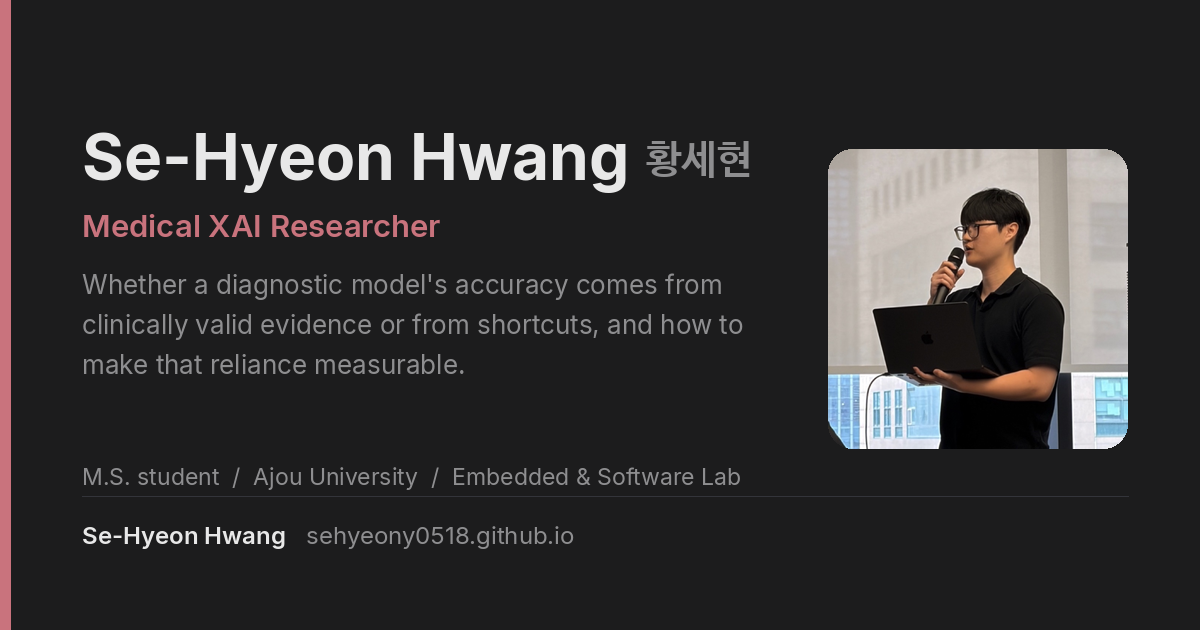
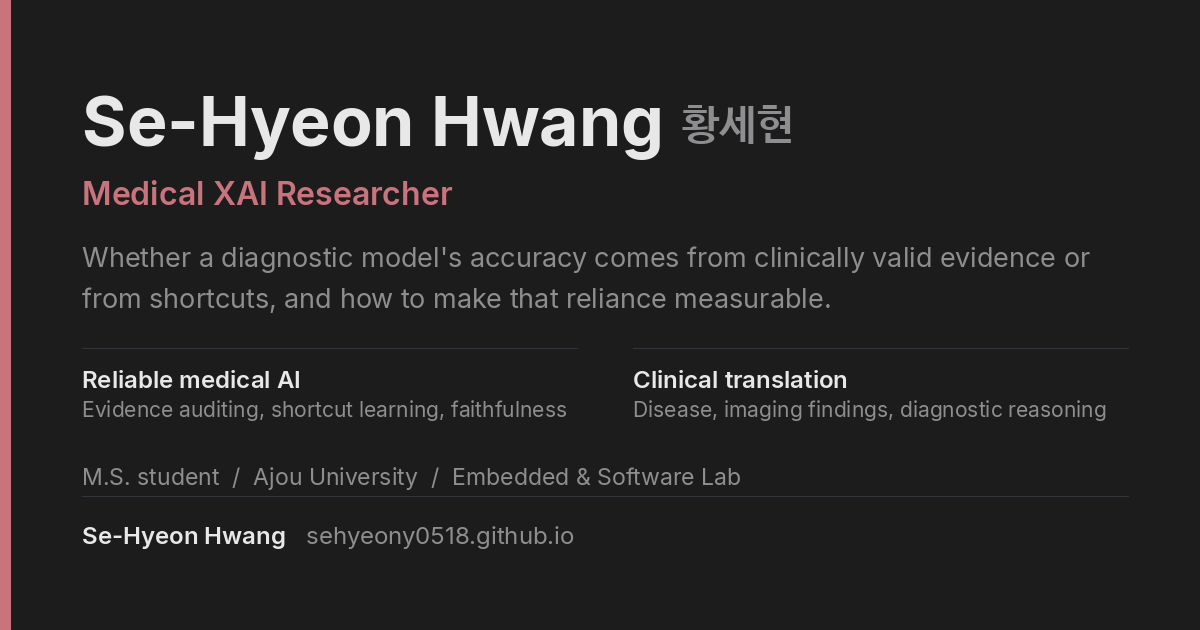
Drop the portrait from the home share card
The card led with a photograph, which is not what the owner wants a
shared link to put in front of people. It is now entirely typographic:
the name, the role line in the accent colour, what the research asks,
and the two directions the home page itself states, set as two columns
in the space the photo occupied.

No page's share card references prof_pic any more.

Changed region(s): [[0.0617, 0.1508, 0.9558, 0.7238]]

diff --git a/bin/build_og_images.py b/bin/build_og_images.py
@@ -2,11 +2,11 @@
 """Render the share-preview cards: one per note, review and insight, plus the
 standing pages.
 
-A link to this site used to preview with the profile photo and a small Twitter
+A link to this site used to preview with a portrait and a small Twitter
 card, which told a reader nothing about the page behind it. Each page now gets a
 1200x630 card that reproduces its own top: the breadcrumb line, the title and
 the description, on the site's dark ground. The home page gets a different card,
-because its top is a name and a photo rather than a heading.
+because its top is a name rather than a heading.
 
 The cards are generated here and committed, so the CI build needs neither
 Pillow nor the fonts. Regenerate after editing a title or description:
@@ -60,8 +60,12 @@ HOME = {
     "tagline": "Medical XAI Researcher",
     "blurb": "Whether a diagnostic model's accuracy comes from clinically valid "
              "evidence or from shortcuts, and how to make that reliance measurable.",
+    # The two directions the home page states, as its own two columns.
+    "columns": [
+        ("Reliable medical AI", "Evidence auditing, shortcut learning, faithfulness"),
+        ("Clinical translation", "Disease, imaging findings, diagnostic reasoning"),
+    ],
     "foot": "M.S. student  /  Ajou University  /  Embedded & Software Lab",
-    "photo": "assets/img/prof_pic.jpg",
 }
 
 
@@ -207,49 +211,42 @@ def render_entry(stem, kind, fm):
 
 
 def render_home(stem):
-    """The home page's top is a name beside a photograph, not a heading."""
+    """The home page's own opening, set as type. No portrait: a shared link
+    should lead with what the work is, not with a face."""
     img, d = base_card()
     x = PAD + 10
+    inner = W - x - PAD
 
-    photo_size = 300
-    photo_x = W - PAD - photo_size
-    photo_y = (H - photo_size) // 2 - 16
-    src = ROOT / HOME["photo"]
-    if src.exists():
-        p = Image.open(src).convert("RGB")
-        # Square crop from the centre, then a rounded mask.
-        side = min(p.size)
-        left, top = (p.width - side) // 2, (p.height - side) // 2
-        p = p.crop((left, top, left + side, top + side)).resize(
-            (photo_size, photo_size), Image.LANCZOS
-        )
-        mask = Image.new("L", (photo_size, photo_size), 0)
-        ImageDraw.Draw(mask).rounded_rectangle(
-            [0, 0, photo_size - 1, photo_size - 1], radius=24, fill=255
-        )
-        img.paste(p, (photo_x, photo_y), mask)
+    t_name = Text(d, font("Inter-Bold.ttf", 68), font("NanumBarunGothic-Bold-subset.ttf", 48))
+    t_line = Text(d, font("Inter-Regular.ttf", 27), font("NanumBarunGothic-Regular-subset.ttf", 26))
 
-    inner = photo_x - x - 56
-    f_name = font("Inter-Bold.ttf", 64)
-    t_name = Text(d, f_name, font("NanumBarunGothic-Bold-subset.ttf", 46))
-    t_line = Text(d, font("Inter-Regular.ttf", 26), font("NanumBarunGothic-Regular-subset.ttf", 25))
-
-    y = PAD + 46
-    end = t_name.draw((x, y), HOME["name"], INK)
+    y = PAD + 8
+    end_x = t_name.draw((x, y), HOME["name"], INK)
     d.text(
-        (end + 16, y + 20),
+        (end_x + 18, y + 22),
         HOME["name_ko"],
-        font=font("NanumBarunGothic-Bold-subset.ttf", 40),
+        font=font("NanumBarunGothic-Bold-subset.ttf", 42),
         fill=MUTED,
     )
-    y += 88
+    y += 94
 
-    d.text((x, y), HOME["tagline"], font=font("Inter-SemiBold.ttf", 31), fill=ACCENT)
-    y += 62
+    d.text((x, y), HOME["tagline"], font=font("Inter-SemiBold.ttf", 32), fill=ACCENT)
+    y += 66
 
     for line in wrap(t_line, HOME["blurb"], inner, 3):
         t_line.draw((x, y), line, MUTED)
-        y += 40
+        y += 41
+
+    # Two columns, as the page states its two directions.
+    y += 26
+    col_w = (inner - 56) // 2
+    f_head = font("Inter-SemiBold.ttf", 24)
+    f_sub = font("Inter-Regular.ttf", 21)
+    for i, (head, sub) in enumerate(HOME["columns"]):
+        cx = x + i * (col_w + 56)
+        d.line([(cx, y), (cx + col_w, y)], fill=RULE, width=1)
+        d.text((cx, y + 16), head, font=f_head, fill=INK)
+        d.text((cx, y + 48), sub, font=f_sub, fill=MUTED)
 
     d.text((x, H - PAD - 96), HOME["foot"], font=font("Inter-Regular.ttf", 23), fill=MUTED)
     footer(d, x)
